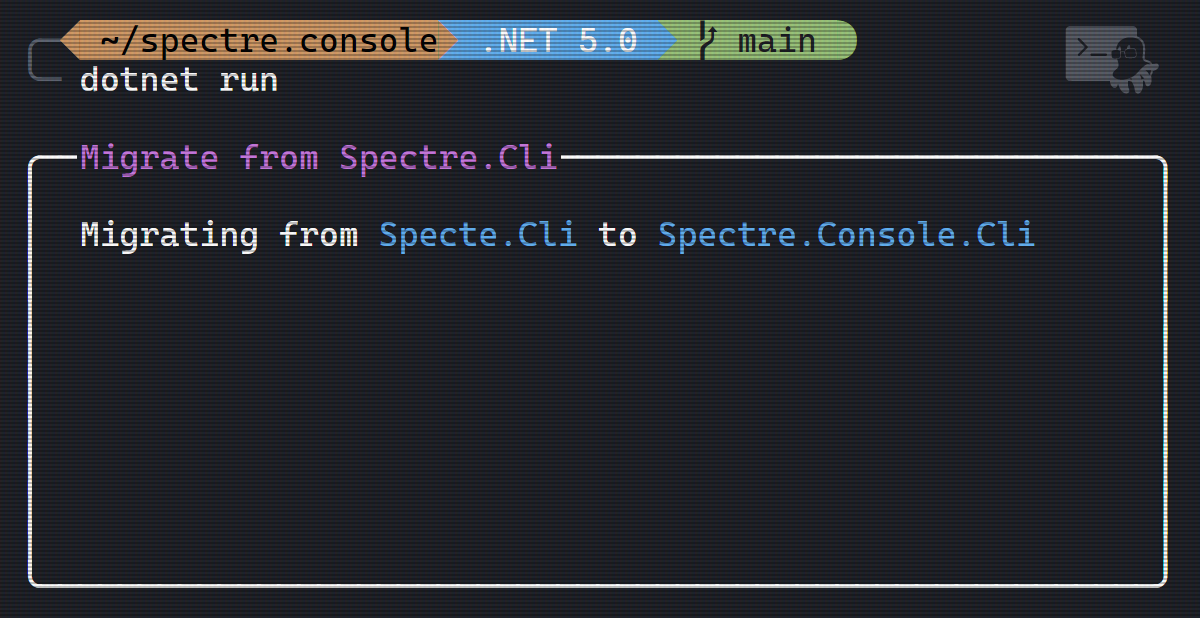
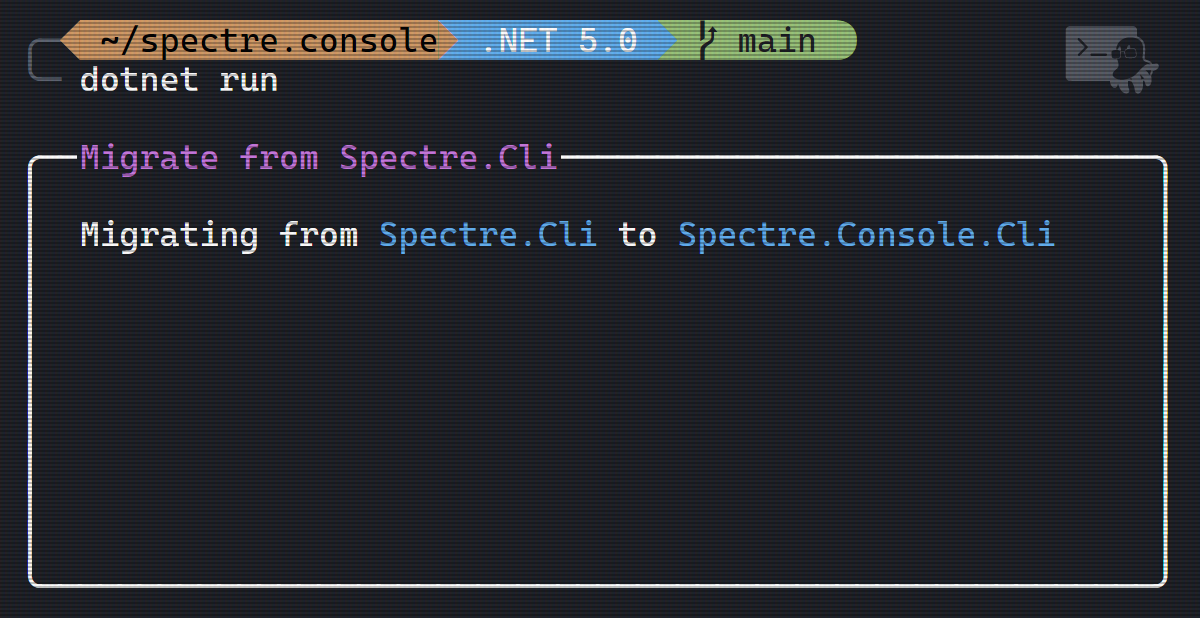
Deployment from Statiq

Changed region(s): [[0.4008, 0.3382, 0.8942, 0.3997]]

diff --git a/cli/commandapp.html b/cli/commandapp.html
@@ -192,7 +192,7 @@ app.Configure(config =&gt;
 });
 </code></pre>
 <h2 id="multiple-commands">Multiple Commands</h2>
-<p>In the previous example we have a single command that is configured. For complex command line applications, it is common for them to have multiple commands (or verbs) defined. Examples of applications like this are <code>git</code>, <code>dotnet</code> and <code>gh</code>. For example, git would have an <code>commit</code> command and along with other commits like <code>add</code> or <code>rebase</code>. Each with their own settings and validation. With <code>Spectre.Console.Cli</code> we use the <code>Configure</code> method to add these commands.</p>
+<p>In the previous example we have a single command that is configured. For complex command line applications, it is common for them to have multiple commands (or verbs) defined. Examples of applications like this are <code>git</code>, <code>dotnet</code> and <code>gh</code>. For example, git would have a <code>commit</code> command and along with other commits like <code>add</code> or <code>rebase</code>. Each with their own settings and validation. With <code>Spectre.Console.Cli</code> we use the <code>Configure</code> method to add these commands.</p>
 <p>For example, to add three different commands to the application:</p>
 <pre><code class="language-csharp">var app = new CommandApp();
 app.Configure(config =&gt;
@@ -202,7 +202,7 @@ app.Configure(config =&gt;
     config.AddCommand&lt;RebaseCommand&gt;(&quot;rebase&quot;);
 });
 </code></pre>
-<p>This configuration would allow users to run <code>app.exe add</code>, <code>app.exe commit</code>, or <code>app.exe rebase</code> and have the settings routed the appropriate command.</p>
+<p>This configuration would allow users to run <code>app.exe add</code>, <code>app.exe commit</code>, or <code>app.exe rebase</code> and have the settings routed to the appropriate command.</p>
 <p>For more complex command hierarchical configurations, they can also be composed via inheritance and branching. See <a href="composing">Composing Commands</a>.</p>
 <h2 id="customizing-command-configurations">Customizing Command Configurations</h2>
 <p>The <code>Configure</code> method is also used to change how help for the commands is generated. This configuration will give our command an additional alias of <code>file-size</code> and a description to be used when displaying the help. Additional, an example is specified that will be parsed and displayed for users asking for help. Multiple examples can be provided. Commands can also be marked as hidden. With this option they are still executable, but will not be displayed in help screens.</p>
@@ -232,7 +232,7 @@ return app.Run(args);
 </code></pre>
 <p><code>TypeRegistrar</code> is a custom class that must be created by the user. This <a href="https://github.com/spectreconsole/spectre.console/tree/main/examples/Cli/Injection">example using <code>Microsoft.Extensions.DependencyInjection</code> as the container</a> provides an example <code>TypeRegistrar</code> and <code>TypeResolver</code> that can be added to your application with small adjustments for your DI container.</p>
 <h2 id="interception">Interception</h2>
-<p><code>CommandApp</code> also provides a <code>SetInterceptor</code> configuration. An interceptor is ran before all commands are executed. This is typically used for configuring logging or other infrastructure concerns.</p>
+<p><code>CommandApp</code> also provides a <code>SetInterceptor</code> configuration. An interceptor is run before all commands are executed. This is typically used for configuring logging or other infrastructure concerns.</p>
 <p>All interceptors must implement <code>ICommandInterceptor</code>. Upon execution of a command, an instance of your interceptor will be called with the parsed settings. This provides an opportunity for configuring any infrastructure or modifying the settings.</p>
 <p>For an example of using the interceptor to configure logging, see the <a href="https://github.com/spectreconsole/spectre.console/tree/main/examples/Cli/Logging">Serilog demo</a>.</p>
 

diff --git a/cli/settings.html b/cli/settings.html
@@ -193,7 +193,7 @@
 </code></pre>
 <p>This setting file tells <code>Spectre.Console.Cli</code> that our command has two parameters. One is marked as a <code>CommandArgument</code>, the other is a <code>CommandOption</code>.</p>
 <h2 id="commandargument">CommandArgument</h2>
-<p>Arguments have a position and a name. The name is not only used for generating help, but it's formatting is used to determine whether or not the argument is optional. The name must either be surrounded by square brackets (e.g. <code>[name]</code>) or angle brackets (e.g. <code>&lt;name&gt;</code>). Angle brackets denote required whereas square brackets denote optional. If neither are specified an exception will be thrown.</p>
+<p>Arguments have a position and a name. The name is not only used for generating help, but its formatting is used to determine whether or not the argument is optional. The name must either be surrounded by square brackets (e.g. <code>[name]</code>) or angle brackets (e.g. <code>&lt;name&gt;</code>). Angle brackets denote required whereas square brackets denote optional. If neither are specified an exception will be thrown.</p>
 <p>The position is used for scenarios where there could be more than one argument.</p>
 <p>For example, we could split the above name argument into two values with an optional last name.</p>
 <pre><code class="language-csharp">[CommandArgument(0, &quot;&lt;firstName&gt;&quot;)]

diff --git a/cli/migration.html b/cli/migration.html
@@ -14,11 +14,11 @@
         <link rel="icon" type="image/png" sizes="16x16" href="/assets/favicons/favicon-16x16.png">
 
         <title>Spectre.Console - Migrate from Spectre.Cli</title>
-        <meta name="description" content="Migrating from *Specte.Cli* to *Spectre.Console.Cli*" />
+        <meta name="description" content="Migrating from *Spectre.Cli* to *Spectre.Console.Cli*" />
 
             <meta name="twitter:card" content="summary_large_image" />
             <meta name="og:title" content="Spectre.Console - Migrate from Spectre.Cli" />
-            <meta name="og:description" content="Migrating from *Specte.Cli* to *Spectre.Console.Cli*" />
+            <meta name="og:description" content="Migrating from *Spectre.Cli* to *Spectre.Console.Cli*" />
             <meta name="og:image" content="https://spectreconsole.net/cli/migration-social.png" />
 
     </head>
@@ -193,7 +193,7 @@ that you get updates or fixes.</p>
 </code></pre>
 <h2 id="change-using-statements">3. Change using statements</h2>
 <p>Change all using statements from <code>Spectre.Cli</code>
-to <code>Spectre.Console.CLi</code>.</p>
+to <code>Spectre.Console.Cli</code>.</p>
 <pre><code class="language-diff">- using Spectre.Cli;
 + using Spectre.Console.Cli;
 </code></pre>

diff --git a/analyzer/rules/spectre1021.html b/analyzer/rules/spectre1021.html
@@ -186,7 +186,7 @@
 <p>Avoid prompting for input while a current renderable is running.</p>
 
 <h2 id="cause">Cause</h2>
-<p>A violation of this rule occurs when a AnsiConsole prompt is called within the context of an executing renderable e.g. <code>Progress</code>, <code>Status</code> and <code>Live</code>. Concurrent LiveRenderable are not supported and will cause issues when running simultaneously.</p>
+<p>A violation of this rule occurs when an AnsiConsole prompt is called within the context of an executing renderable e.g. <code>Progress</code>, <code>Status</code> and <code>Live</code>. Concurrent LiveRenderable are not supported and will cause issues when running simultaneously.</p>
 <h2 id="reason-for-rule">Reason for rule</h2>
 <p>When LiveRenderable such as <code>Progress</code>, <code>Status</code> or <code>Live</code> are running they expect to be running exclusively. They rely on ANSI sequences to draw and keep the console experience consistent. Prompts also rely on ANSI sequences for their drawing. Simultaneous running can result in corrupt output.</p>
 <h2 id="how-to-fix-violations">How to fix violations</h2>

diff --git a/blog/index.html b/blog/index.html
@@ -180,7 +180,7 @@
         <h3 class="mb-0"><a href="/blog/posts/2021-07-19-spectre-console-0.41-released">Spectre.Console 0.41 released!</a></h3>
         <div class="mt-2 font-light text-xs md:text-sm">
             <span>Posted </span>
-                <span>Tuesday, September 14, 2021 </span>
+                <span>Friday, October 15, 2021 </span>
 <span>
                     to <a class="text-blue-800 underline" href="/blog/release-notes">
                         Release Notes
@@ -197,7 +197,7 @@ If you want to try them out, add a reference to <a href="https://www.nuget.org/p
         <h3 class="mb-0"><a href="/blog/posts/2021-07-11-hello-world">Hello, World</a></h3>
         <div class="mt-2 font-light text-xs md:text-sm">
             <span>Posted </span>
-                <span>Tuesday, September 14, 2021 </span>
+                <span>Friday, October 15, 2021 </span>
 <span>
                     to <a class="text-blue-800 underline" href="/blog/news">
                         News

diff --git a/cli/getting-started.html b/cli/getting-started.html
@@ -236,7 +236,7 @@ internal sealed class FileSizeCommand : Command&lt;FileSizeCommand.Settings&gt;
 <li>The third will also be a parameter option. Here <code>DefaultValue</code> is used to indicate the default value will be <code>true</code>. For boolean parameters these will be interpreted as flags which means the user can just specify <code>--hidden</code> rather than <code>-hidden true</code>.</li>
 </ul>
 <p>When <code>args</code> is passed into the <code>CommandApp</code>'s run method, <code>Spectre.Console.Cli</code> will parse those arguments and populate an instance of your settings. Upon success, it will then pass those settings into an instance of the specified command's <code>Execute</code> method.</p>
-<p>With this in place, we can the following commands will all work</p>
+<p>With this in place, the following commands will all work</p>
 <pre><code class="language-text">app.exe
 app.exe c:\windows
 app.exe c:\windows --pattern *.dll

diff --git a/cli/composing.html b/cli/composing.html
@@ -275,7 +275,7 @@ namespace MyApp
 <p>Now you might wonder, why do things like this? Well, for starters the different parts
 of the application are separated, while still having the option to share things like options,
 flags and arguments between them.</p>
-<p>This make the resulting code very clean and easy to navigate, not to mention to unit test.
+<p>This makes the resulting code very clean and easy to navigate, not to mention to unit test.
 And most importantly at all, the type system guides me to do the right thing. I can't configure
 commands in non-compatible ways, and if I want to add a new top-level <code>add-package</code> command
 (or move the command completely), it's just a single line to change. This makes it easy to

diff --git a/cli/introduction.html b/cli/introduction.html
@@ -279,7 +279,7 @@ namespace MyApp
 <p>Now you might wonder, why do things like this? Well, for starters the different parts
 of the application are separated, while still having the option to share things like options,
 flags and arguments between them.</p>
-<p>This make the resulting code very clean and easy to navigate, not to mention to unit test.
+<p>This makes the resulting code very clean and easy to navigate, not to mention to unit test.
 And most importantly at all, the type system guides me to do the right thing. I can't configure
 commands in non-compatible ways, and if I want to add a new top-level <code>add-package</code> command
 (or move the command completely), it's just a single line to change. This makes it easy to

diff --git a/widgets/canvas-image.html b/widgets/canvas-image.html
@@ -203,7 +203,7 @@ AnsiConsole.Render(image);
 <asciinema-player src="/assets/casts/canvas-image-rich.cast" autoplay></asciinema-player>
 <h2 id="manipulating-images">Manipulating images</h2>
 <p>You can take full advantage of <a href="https://github.com/SixLabors/ImageSharp">ImageSharp</a>
-and manipulate images directly via it's <a href="https://docs.sixlabors.com/api/ImageSharp/SixLabors.ImageSharp.Processing.html">Processing API</a>.</p>
+and manipulate images directly via its <a href="https://docs.sixlabors.com/api/ImageSharp/SixLabors.ImageSharp.Processing.html">Processing API</a>.</p>
 <pre><code class="language-csharp">// Load an image
 var image = new CanvasImage(&quot;cake.png&quot;);
 image.MaxWidth(32);

diff --git a/sponsors.html b/sponsors.html
@@ -186,7 +186,7 @@ Spectre.Console to show their support and to ensure the longevity of the project
 <li><a href="https://github.com/RLittlesII">Rodney Littles II</a></li>
 <li><a href="https://github.com/bjorkstromm">Martin Björkström</a></li>
 <li><a href="https://github.com/daveaglick">Dave Glick</a></li>
-<li><a href="https://github.com/kimgunnarsson">Kim Gunanrsson</a></li>
+<li><a href="https://github.com/kimgunnarsson">Kim Gunnarsson</a></li>
 <li><a href="https://github.com/andymac4182">Andrew McClenaghan</a></li>
 <li><a href="https://github.com/augustoproiete">C. Augusto Proiete</a></li>
 <li><a href="https://github.com/vktr">Viktor Elofsson</a></li>

diff --git a/appendix/borders.html b/appendix/borders.html
@@ -180,7 +180,7 @@
                         
                     </header>
                     <div class="prose max-w-none prose-sm lg:prose lg:max-w-none 2xl:prose-xl 2xl:max-w-none text-gray-700 font-light">
-                        <p>There is different built-in borders you can use for tables and panels.</p>
+                        <p>There are different built-in borders you can use for tables and panels.</p>
 <h2 id="table-borders">Table borders</h2>
 <p><img src="../assets/images/borders/table.png" alt="Examples of table borders" /></p>
 <h3 id="example">Example</h3>

diff --git a/markup.html b/markup.html
@@ -222,7 +222,7 @@ AnsiConsole.Markup("[default on blue]World[/]");
 </code></pre>
 <p>For a list of emoji, see the <a href="/appendix/emojis">Emojis</a> appendix section.</p>
 <h2 id="colors">Colors</h2>
-<p>In the examples above, all colors was referenced by their name,
+<p>In the examples above, all colors were referenced by their name,
 but you can also use the hex or rgb representation for colors in markdown.</p>
 <pre><code class="language-csharp">AnsiConsole.Markup("[red]Foo[/] ");
 AnsiConsole.Markup("[#ff0000]Bar[/] ");
